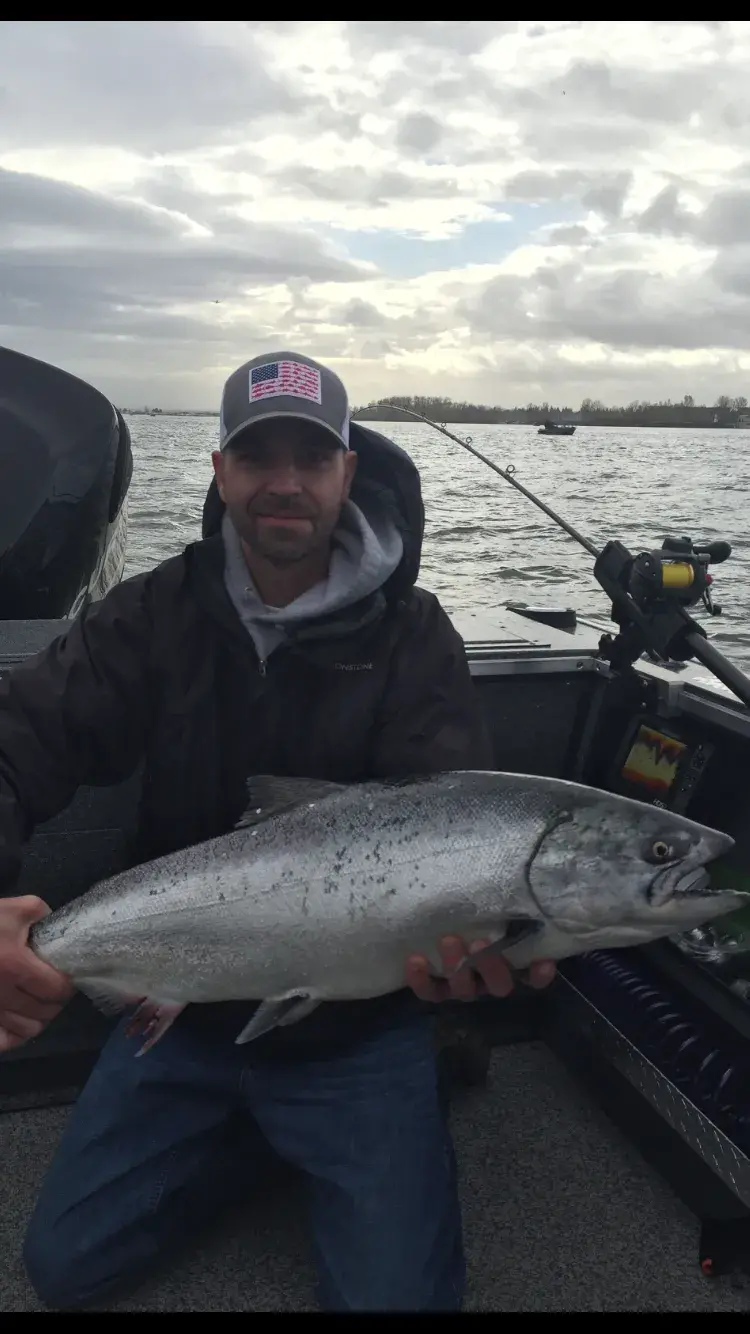
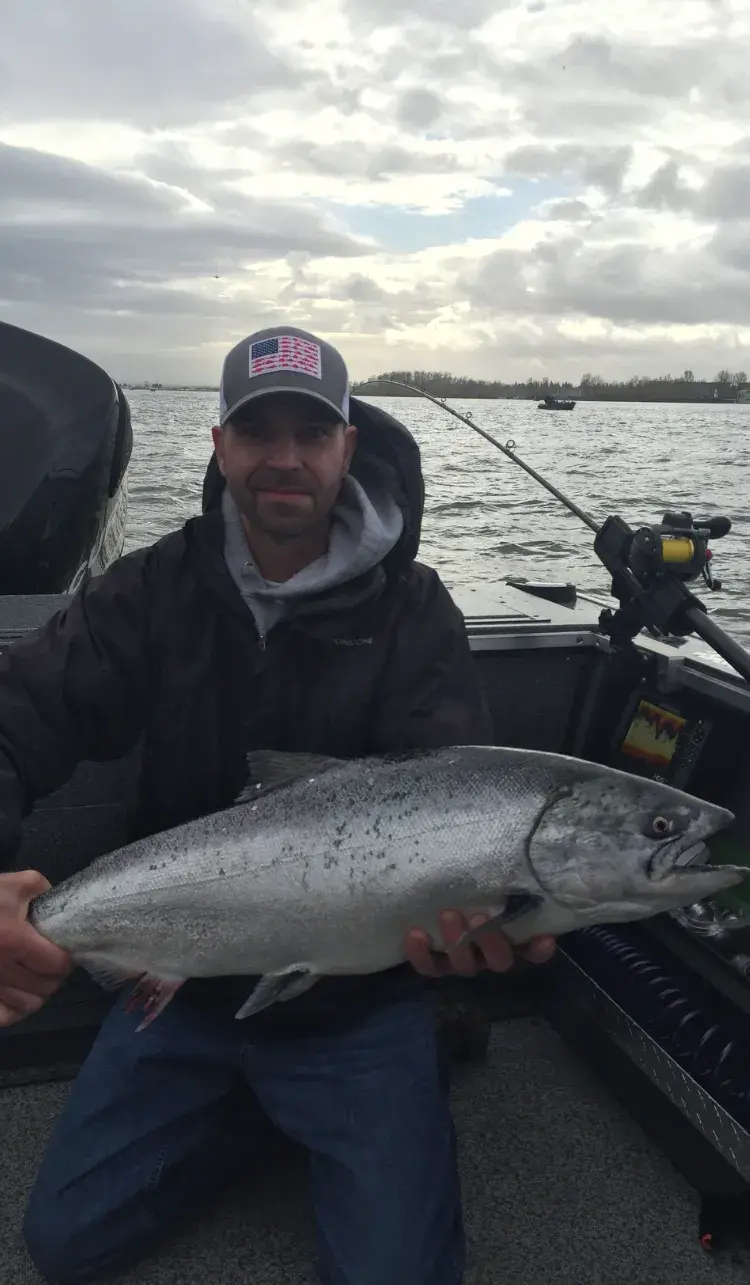
added media queries for tablet and desktop versions, mostly for images and text

diff --git a/src/pages/booking-and-rates/index.js b/src/pages/booking-and-rates/index.js
@@ -23,15 +23,17 @@ const MeetKevin = () => (
         <hr></hr>
       </div>
       <div className="white-block no-bottom-white-space">
+        <br />
         <p>
           I own and operate a 16 foot Alumaweld drift boat for the smaller
           rivers and a 25 foot Alumaweld Columbia sled for the large rivers.
         </p>
 
         <p>
+          <br />
           <strong>I supply the following:</strong>
           <br /> <br /> Life vests <br /> <br /> Rods <br /> <br /> Reels <br />
-          <br /> Bait and tackle <br />
+          <br /> Bait and tackle <br /> <br />
         </p>
 
         <p>
@@ -52,12 +54,23 @@ const MeetKevin = () => (
           *Cancellations within 30 days of the trip are fully refundable. Less
           than 30 days can be rescheduled or are non refundable.
         </p>
+        <br />
+      </div>
+
+      <div className="color-block">
+        <Link href="https://squareup.com/appointments/book/uu4iatwccr4f0e/L2WSFAAXGPHA9/start">
+          <div className="ui primary button">Schedule My Trip</div>
+        </Link>
       </div>
 
       <div className="white-block">
         <div>
           <h3>DRIFT BOAT</h3>
-          <img alt="drift boat" src={driftBoat}></img>
+          <img
+            className="smaller-img smaller-img-desktop"
+            alt="drift boat"
+            src={driftBoat}
+          ></img>
           <p>
             16 ft Drift boat: seats 2-3 people $200.00 per seat. A $50.00 non
             refundable deposit per seat is due at the time of booking.
@@ -66,14 +79,18 @@ const MeetKevin = () => (
       </div>
 
       <div className="color-block">
-        <Link href="https://squareup.com/appointments/buyer/widget/3sx4a3ghmmfghv/LDD696QWAJDWJ">
+        <Link href="https://squareup.com/appointments/book/uu4iatwccr4f0e/L2WSFAAXGPHA9/start">
           <div className="ui primary button">Schedule My Trip</div>
         </Link>
       </div>
 
       <div className="white-block">
         <h3>SLED BOAT</h3>
-        <img alt="sled boat" src={sledBoat}></img>
+        <img
+          className="smaller-img-desktop"
+          alt="sled boat"
+          src={sledBoat}
+        ></img>
         <p>
           25 ft Sled: seats 5 people $200.00 per seat. A $50.00 non refundable
           deposit per seat is due at the time of booking.
@@ -81,14 +98,18 @@ const MeetKevin = () => (
       </div>
 
       <div className="color-block">
-        <Link href="https://squareup.com/appointments/buyer/widget/3sx4a3ghmmfghv/LDD696QWAJDWJ">
+        <Link href="https://squareup.com/appointments/book/uu4iatwccr4f0e/L2WSFAAXGPHA9/start">
           <div className="ui primary button">Schedule My Trip</div>
         </Link>
       </div>
 
       <div className="white-block">
         <h3>Buoy 10</h3>
-        <img alt="buoy 10 fishing spot" src={buoy10}></img>
+        <img
+          className="smaller-img-desktop"
+          alt="buoy 10 fishing spot"
+          src={buoy10}
+        ></img>
         <p>
           $250.00 per seat. Where the Columbia river meets the Pacific Ocean.
           Huge numbers of Chinook and Coho travel up the Columbia river from the
@@ -101,7 +122,7 @@ const MeetKevin = () => (
       </div>
 
       <div className="color-block">
-        <Link href="https://squareup.com/appointments/buyer/widget/3sx4a3ghmmfghv/LDD696QWAJDWJ">
+        <Link href="https://squareup.com/appointments/book/uu4iatwccr4f0e/L2WSFAAXGPHA9/start">
           <div className="ui primary button">Schedule My Trip</div>
         </Link>
       </div>
@@ -113,7 +134,11 @@ const MeetKevin = () => (
 
         <div>
           <h3>Hunting</h3>
-          <img alt="hunting" src={kevinPic}></img>
+          <img
+            className="smaller-img-desktop"
+            alt="hunting"
+            src={kevinPic}
+          ></img>
           <p>
             When you choose me as your guide for hunting I will show you how to
             track, spot & stalk, glass and communicate with the species we're

diff --git a/src/pages/index.js b/src/pages/index.js
@@ -6,7 +6,7 @@ import Layout from "../components/Layout"
 
 import "../styles/Home.css"
 
-import kevinPic from "../images/walleye1.webp"
+import kevinPic from "../images/springchinook.webp"
 import placeHolder from "../images/placeholder.png"
 import summer from "../images/summer-fishing.webp"
 import spring from "../images/spring-fishing.webp"
@@ -29,7 +29,11 @@ class HomePage extends React.Component {
           <div className="white-block">
             <Link href="/meet-your-guide">
               <h2>Meet Kevin</h2>
-              <img class="tablet-img" alt="Kevin Williams" src={kevinPic}></img>
+              <img
+                class="tablet-img main-img"
+                alt="Kevin Williams"
+                src={kevinPic}
+              ></img>
               <p>
                 Hi, I’m Kevin Williams owner of Northwest Bound Outdoors Guide
                 Service. I grew up in Oregon and have been fishing in the
@@ -96,7 +100,11 @@ class HomePage extends React.Component {
               <h2>Hunting</h2>
             </div>
             <div className="white-block">
-              <img alt="hunting" src={placeHolder}></img>
+              <img
+                className="smaller-img-desktop"
+                alt="hunting"
+                src={placeHolder}
+              ></img>
               <p>
                 When you choose me as your guide for hunting I will show you how
                 to track, spot & stalk, glass and communicate with the species

diff --git a/src/styles/Layout.css b/src/styles/Layout.css
@@ -638,20 +638,73 @@ pre tt:after {
   margin-bottom: -22px !important;
 }
 
+hr {
+  margin-bottom: 22px !important;
+}
+
 /* RESPONSIVE DESIGN */
+@media only screen and (max-device-width: 600px) {
+  .main-img {
+    height: 60%;
+    width: 60%;
+  }
+}
 
 /* iPads (portrait and landscape) ----------- */
 @media only screen and (min-device-width: 600px) and (max-device-width: 1024px) {
   .tablet-img {
-    height: 50%;
-    width: 50%;
+    height: 35%;
+    width: 35%;
+  }
+
+  .smaller-img {
+    height: 70%;
+    width: 70%;
+  }
+
+  .BrainhubCarousel {
+    height: 600px !important;
+    margin-top: 20px;
+    margin-bottom: 20px;
+    border-radius: 50px !important;
+  }
+
+  .BrainhubCarouselItem > img {
+    height: 40% !important;
+  }
+
+  p {
+    padding-left: 80px;
+    padding-right: 80px;
   }
 }
 
 /* Large screens ----------- */
 @media only screen and (min-width: 1024px) {
   .tablet-img {
-    height: 75%;
-    width: 75%;
+    height: 15%;
+    width: 15%;
+  }
+
+  .main-img {
+    height: 20%;
+    width: 20%;
+  }
+
+  .smaller-img-desktop {
+    height: 50%;
+    width: 50%;
+  }
+
+  p {
+    padding-left: 200px;
+    padding-right: 200px;
+  }
+}
+
+@media only screen and (min-width: 1500px) {
+  p {
+    padding-left: 500px;
+    padding-right: 500px;
   }
 }

diff --git a/src/pages/meet-your-guide/index.js b/src/pages/meet-your-guide/index.js
@@ -7,7 +7,6 @@ import Layout from "../../components/Layout"
 import "../../styles/MeetYourGuide.css"
 import kevinPic from "../../images/walleye1.webp"
 
-
 class MeetKevin extends React.Component {
   componentDidMount() {
     window.scrollTo(0, 0)
@@ -21,7 +20,11 @@ class MeetKevin extends React.Component {
             <h2>Meet Kevin</h2>
           </div>
           <div className="white-block">
-            <img alt="Kevin Williams" src={kevinPic}></img>
+            <img
+              className="tablet-img main-img"
+              alt="Kevin Williams"
+              src={kevinPic}
+            ></img>
             <p>
               Hi, I’m Kevin Williams, owner of Northwest Bound Outdoors Guide
               Service. I grew up in Oregon and have been fishing in the

diff --git a/src/components/Header.js b/src/components/Header.js
@@ -8,6 +8,7 @@ import { slide as Menu } from "react-burger-menu"
 import Logo from "../images/nw-bound-logo.webp"
 
 import "../styles/Header.css"
+//https://squareup.com/appointments/book/uu4iatwccr4f0e/L2WSFAAXGPHA9/start
 
 class Header extends React.Component {
   state = { isActive: false }
@@ -66,7 +67,7 @@ class Header extends React.Component {
         <div class="right menu">
           <div class="item">
             <a
-              href="https://squareup.com/appointments/book/d4ctoy7ndtq03g/LDD696QWAJDWJ/start"
+              href="https://squareup.com/appointments/book/uu4iatwccr4f0e/L2WSFAAXGPHA9/start"
               class="ui inverted button booking-button"
             >
               Book A Trip

diff --git a/src/pages/gallery/index.js b/src/pages/gallery/index.js
@@ -1,5 +1,4 @@
 import * as React from "react"
-import { Link } from "gatsby"
 
 import ImgSlider from "../../components/ImgSlider"
 import Layout from "../../components/Layout"
@@ -25,7 +24,13 @@ const IndexPage = () => (
       </div>
 
       <div className="white-block">
-        <ImgSlider img1={steelhead1} img2={steelhead2} img3={steelhead3} />
+          <ImgSlider
+            className="smaller-caro"
+            img1={steelhead1}
+            img2={steelhead2}
+            img3={steelhead3}
+          />
+
         <ImgSlider
           alt="winter steelhead fish"
           img1={chinook}

diff --git a/src/components/Footer.js b/src/components/Footer.js
@@ -27,9 +27,9 @@ class Footer extends React.Component {
           <strong>Contact Information</strong>
         </p>
         <div>
-          <div className="footer-text">nwboundoutdoors@gmail.com</div>
+          <div className="footer-text">kevin@nwboundoutdoors.com</div>
           <a
-            href="mailto:nwboundoutdoors@gmail.com"
+            href="mailto:kevin@nwboundoutdoors.com"
             className="ui button primary"
           >
             Email Us

diff --git a/src/pages/oregon-hunting/index.js b/src/pages/oregon-hunting/index.js
@@ -17,7 +17,11 @@ const IndexPage = () => (
 
         <div>
           <h3>Hunting</h3>
-          <img alt="hunting" src={kevinPic}></img>
+          <img
+            className="smaller-img smaller-img-desktop"
+            alt="hunting"
+            src={kevinPic}
+          ></img>
           <p>
             Hello my name is Kevin Williams, I’m an avid outdoorsman who lives
             and breathes the outdoors. I started hunting at the age of 13 with
